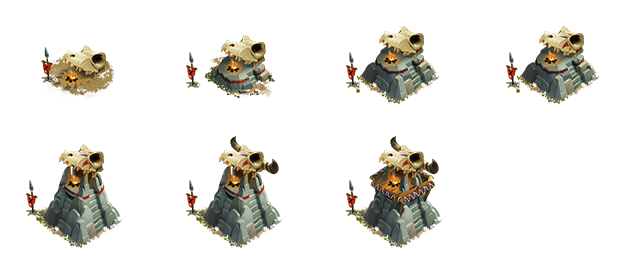
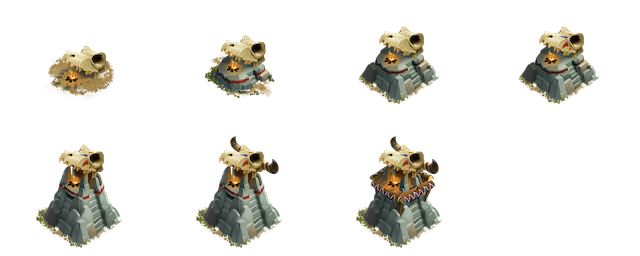
flag animations completed

diff --git a/client/app/assets/stylesheets/buildings.erb.scss b/client/app/assets/stylesheets/buildings.erb.scss
@@ -433,6 +433,14 @@
          -o-animation: anim_sleeping_tavern .5s steps(4) infinite;
             animation: anim_sleeping_tavern .5s steps(4) infinite;
   }
+  .building_chief_cottage.building-image .chief_cottage_flag
+  {
+    -webkit-animation: anim_chief_cottage_flag .5s steps(6) infinite;
+       -moz-animation: anim_chief_cottage_flag .5s steps(6) infinite;
+        -ms-animation: anim_chief_cottage_flag .5s steps(6) infinite;
+         -o-animation: anim_chief_cottage_flag .5s steps(6) infinite;
+            animation: anim_chief_cottage_flag .5s steps(6) infinite;
+  }
   .building_tavern.building-image.active {
     -webkit-animation: anim_tavern .5s steps(5) infinite;
        -moz-animation: anim_tavern .5s steps(5) infinite;
@@ -447,6 +455,22 @@
         -ms-animation: anim_copper_smelter .5s steps(5) infinite;
          -o-animation: anim_copper_smelter .5s steps(5) infinite;
             animation: anim_copper_smelter .5s steps(5) infinite;
+  }
+  .building_copper_smelter.building-image{
+    -webkit-animation: anim_copper_smelter .5s steps(5) infinite;
+       -moz-animation: anim_copper_smelter .5s steps(5) infinite;
+        -ms-animation: anim_copper_smelter .5s steps(5) infinite;
+         -o-animation: anim_copper_smelter .5s steps(5) infinite;
+            animation: anim_copper_smelter .5s steps(5) infinite;
+  }
+
+
+  .building_haunt.building-image .haunt_flag{
+    -webkit-animation: anim_haunt_flag .5s steps(6) infinite;
+       -moz-animation: anim_haunt_flag .5s steps(6) infinite;
+        -ms-animation: anim_haunt_flag .5s steps(6) infinite;
+         -o-animation: anim_haunt_flag .5s steps(6) infinite;
+            animation: anim_haunt_flag .5s steps(6) infinite;    
   }
 
 
@@ -489,10 +513,19 @@
   }
 }
 
-/*Cief Cottage*/
+/*Chief Cottage*/
 .building_chief_cottage.building-image {
   top: -16%;
   background-image: url('<%= asset_path("buildings/base/building_chief_cottage/building_chief_cottage_small.png") %>');
+
+  .chief_cottage_flag{
+    background-image: url('<%= asset_path("buildings/base/building_chief_cottage/building_chief_cottage_flag_anim.png") %>');
+    width: 54px;
+    height: 107px;
+    position: absolute;
+    top:10px;
+  }
+
 }
 
 /*Gatherer*/
@@ -652,6 +685,17 @@
 /*Haunt*/
 .building_haunt.building-image {
   background-image: url('<%= asset_path("buildings/base/building_haunt/building_haunt_small.png") %>');
+
+
+  .haunt_flag{
+    background-image: url('<%= asset_path("buildings/base/building_haunt/haunt_flag_anim.png") %>');
+    width: 71px;
+    height: 71px;
+    position: absolute;
+    left:40px;
+    top:15px;
+  }
+
 }
 
 /*Field Camp*/
@@ -1147,4 +1191,61 @@
    from { background-position: 0px 0px; }
      to { background-position: -800px 0px; }
 }
+
+
+/* ==== Chief cottage flag Animations ==== */
+
+@-webkit-keyframes anim_chief_cottage_flag {
+   from { background-position: 0px 0px; }
+     to { background-position: -320px 0px; }
+}
+
+@-moz-keyframes anim_chief_cottage_flag {
+   from { background-position: 0px 0px; }
+     to { background-position: -320px 0px; }
+}
+
+@-ms-keyframes anim_chief_cottage_flag {
+   from { background-position: 0px 0px; }
+     to { background-position: -320px 0px; }
+}
+
+@-o-keyframes anim_chief_cottage_flag {
+   from { background-position: 0px 0px; }
+     to { background-position: -320px 0px; }
+}
+
+@keyframes anim_chief_cottage_flag {
+   from { background-position: 0px 0px; }
+     to { background-position: -320px 0px; }
+}
+
+/* ==== Anim Haunt Flag ==== */
+
+@-webkit-keyframes anim_haunt_flag {
+   from { background-position: 0px 0px; }
+     to { background-position: -430px 0px; }
+}
+
+@-moz-keyframes anim_haunt_flag {
+   from { background-position: 0px 0px; }
+     to { background-position: -430px 0px; }
+}
+
+@-ms-keyframes anim_haunt_flag {
+   from { background-position: 0px 0px; }
+     to { background-position: -430px 0px; }
+}
+
+@-o-keyframes anim_haunt_flag {
+   from { background-position: 0px 0px; }
+     to { background-position: -430px 0px; }
+}
+
+@keyframes anim_haunt_flag {
+   from { background-position: 0px 0px; }
+     to { background-position: -430px 0px; }
+}
+
+
 

diff --git a/client/app/assets/javascripts/awe/UI/ember/buildingviews.js b/client/app/assets/javascripts/awe/UI/ember/buildingviews.js
@@ -143,6 +143,33 @@ AWE.UI.Ember = (function(module) {
     }.property("building", 'level'),
 
 
+    chief_cottage_flag:function(){
+        return true;
+      if(this.get("building"))
+      {
+         if(AWE.GS.RulesManager.getRules().building_types[this.getPath("building.buildingId")].symbolic_id == 'building_chief_cottage')
+         {
+            return true;
+         }
+      }
+
+      return false;
+    }.property('building'),
+
+    haunt_flag:function(){
+        return true;
+      if(this.get("building"))
+      {
+         if(AWE.GS.RulesManager.getRules().building_types[this.getPath("building.buildingId")].symbolic_id == 'building_haunt')
+         {
+            return true;
+         }
+      }
+
+      return false;
+    }.property('building'),
+
+
     active:function(){
 
       

diff --git a/client/app/assets/javascripts/awe/UI/ember/templates/buildingviews.html b/client/app/assets/javascripts/awe/UI/ember/templates/buildingviews.html
@@ -38,7 +38,16 @@
       </div>
     {{/if}}
   {{/if}}
-  <div {{bindAttr class="size active type :building-image"}}>
+  <div {{bindAttr class="size active type  :building-image"}}>
+
+
+    {{#if chief_cottage_flag}}
+      <div class="chief_cottage_flag"></div>
+    {{/if}}
+
+    {{#if haunt_flag}}
+      <div class="haunt_flag"></div>
+    {{/if}}
 
     {{#if active}}
     {{else}}
